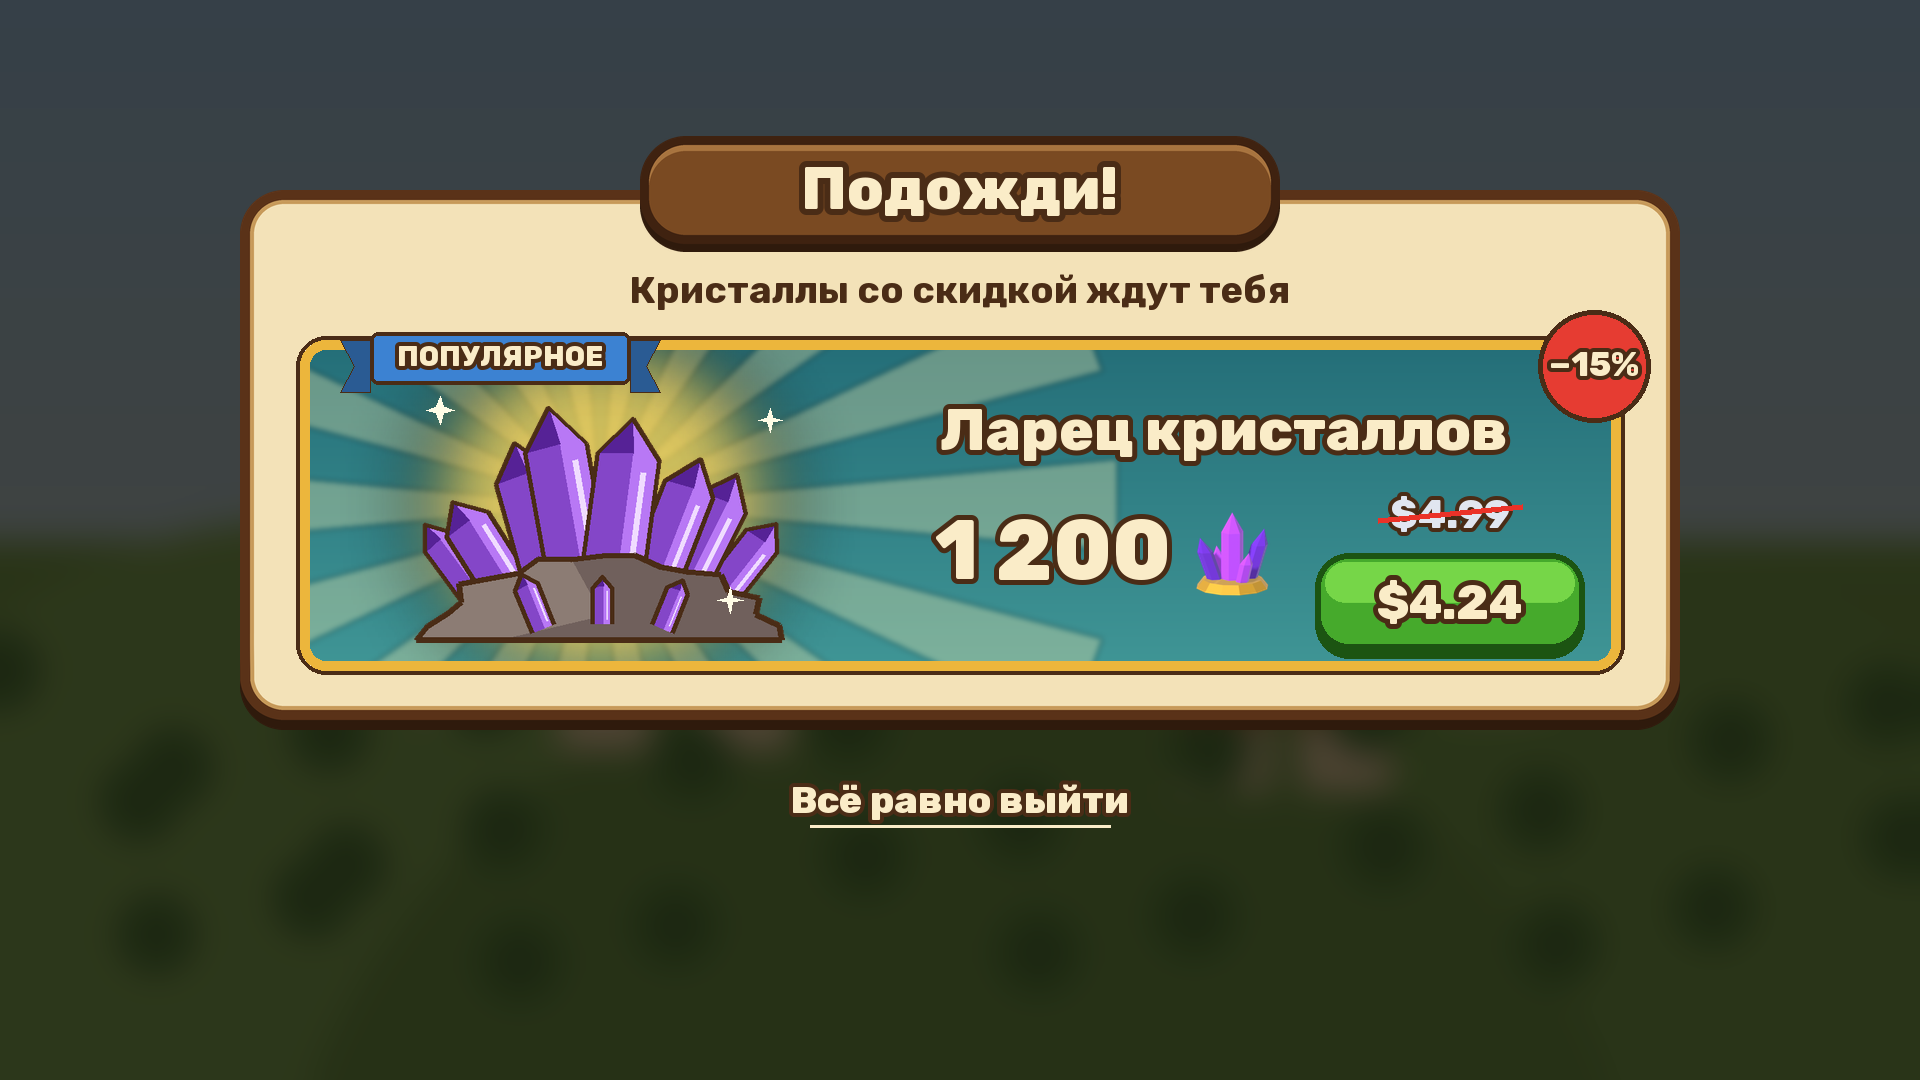
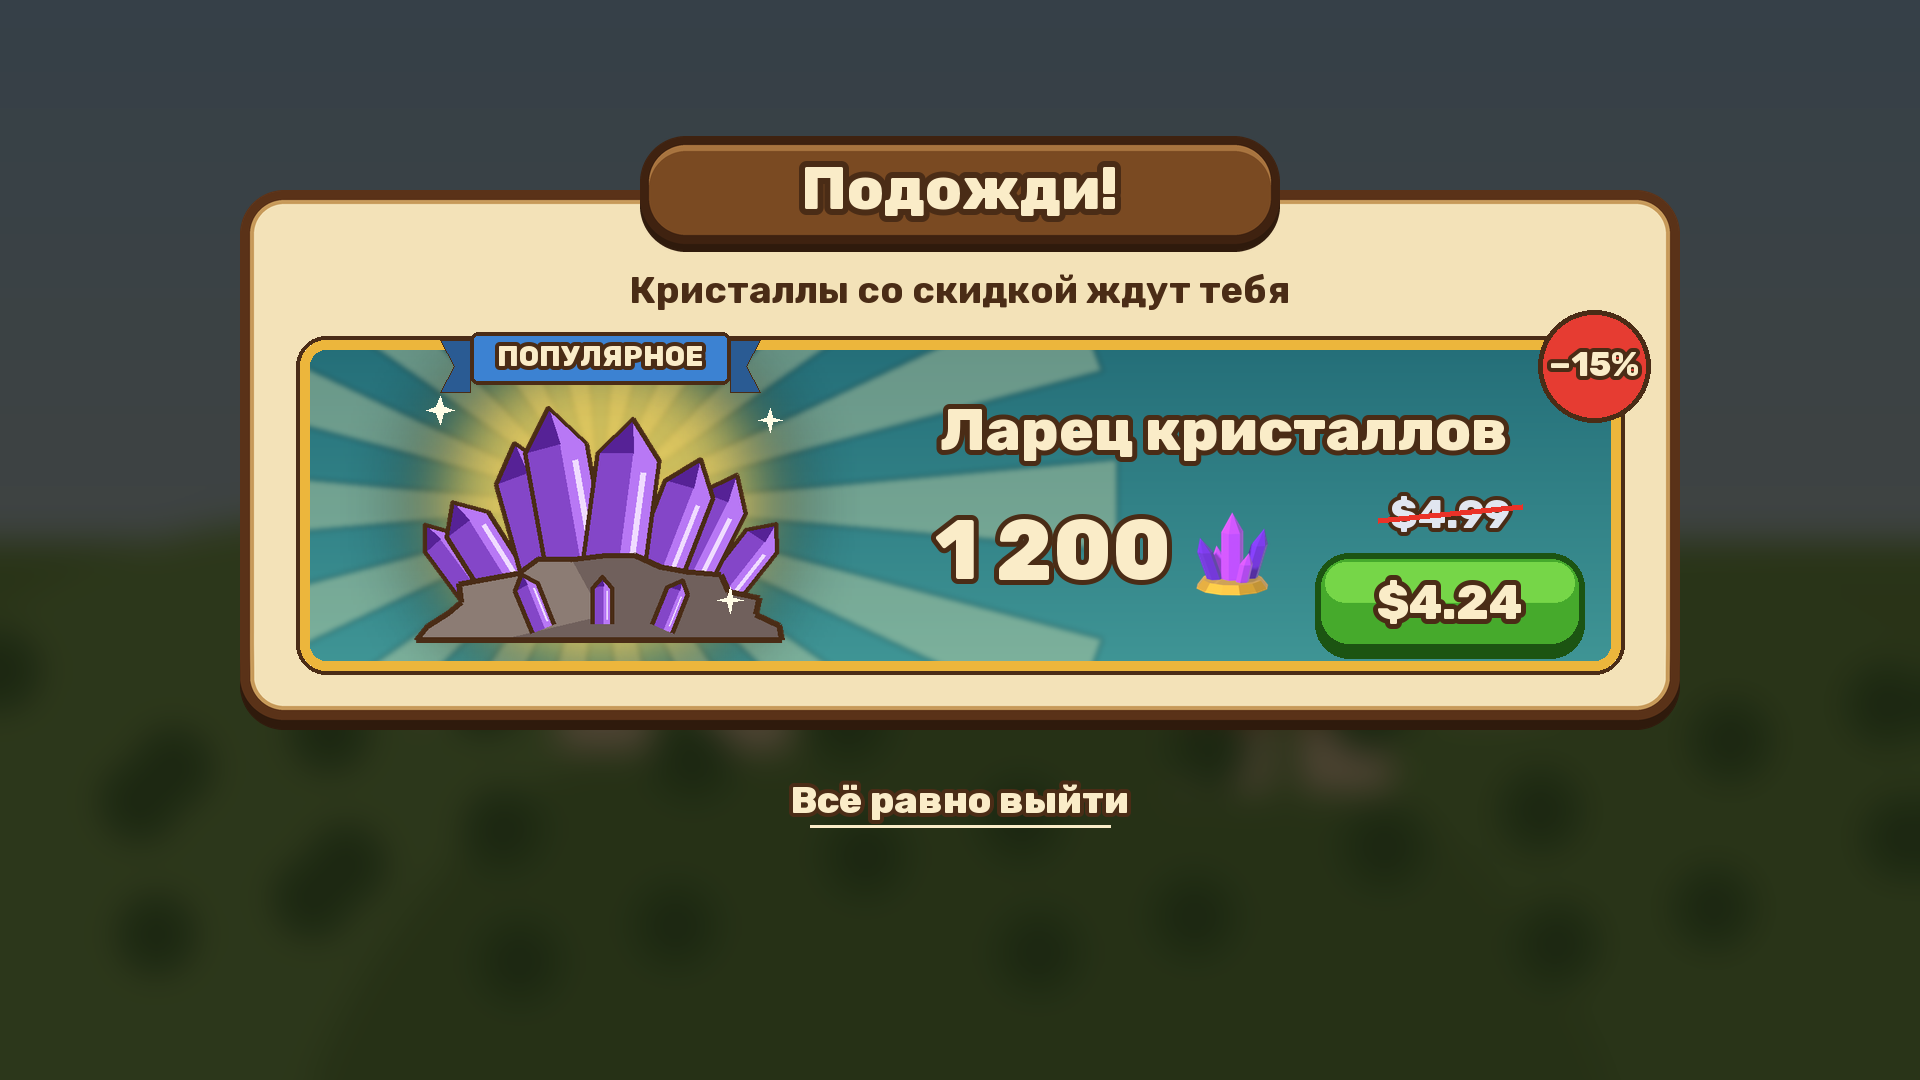
Pack offer mockups: the ribbon centred over the crystals

Changed region(s): [[0.1562, 0.3056, 0.4062, 0.3667]]

diff --git a/Tools/store/exit_pack_offers_mockup.py b/Tools/store/exit_pack_offers_mockup.py
@@ -48,7 +48,7 @@ def pack_offer_card(img, d, box, i):
     text(d, (tx, y0 + 90), title, 58, anchor='lm')
     amount(img, d, (tx + 170, y0 + 210), n, 84)
     if badge:
-        ribbon(img, d, (x0 + 200, y0 + 18), 260, badge[0], badge[1], 28)
+        ribbon(img, d, (x0 + gx, y0 + 18), 260, badge[0], badge[1], 28)
     bx, by = x1 - 170, y1 - 64
     oy = by - 92
     text(d, (bx, oy), old, 40, fill=(225, 230, 240), stroke=4)
